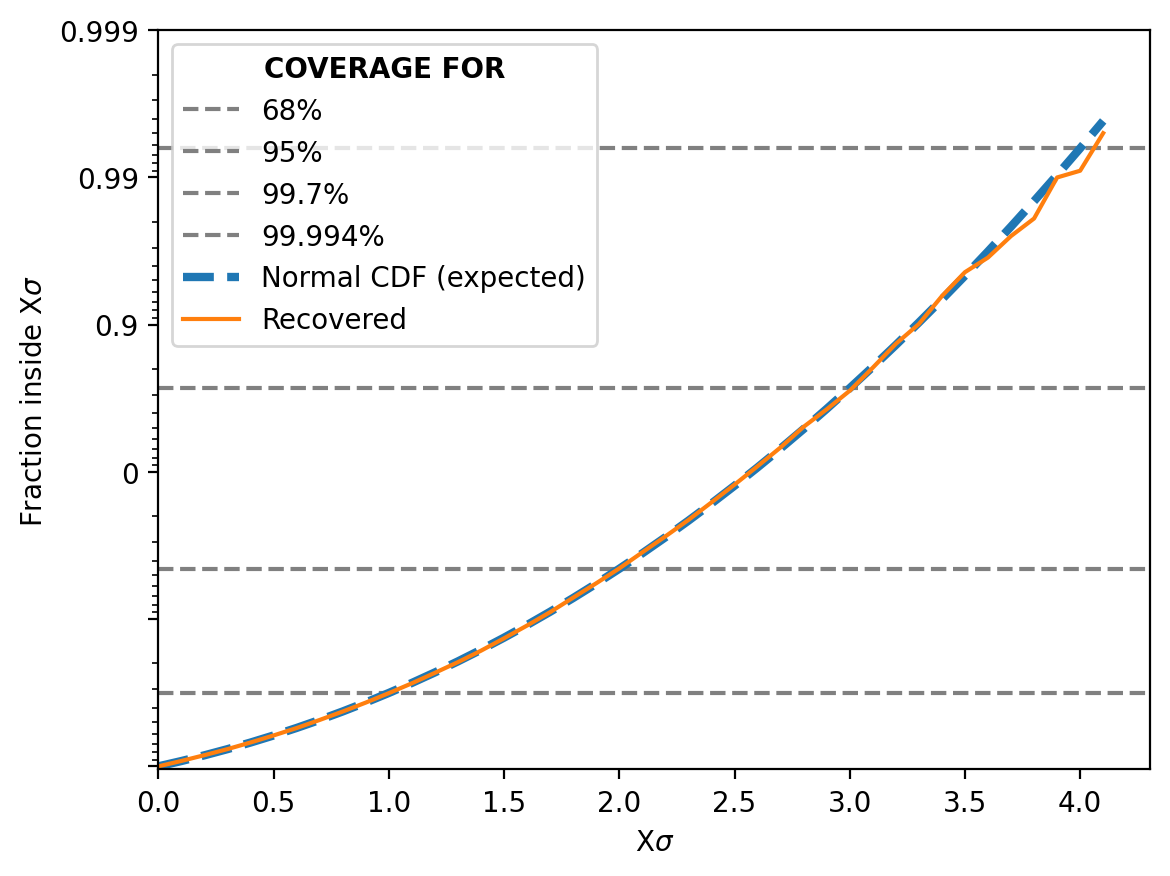
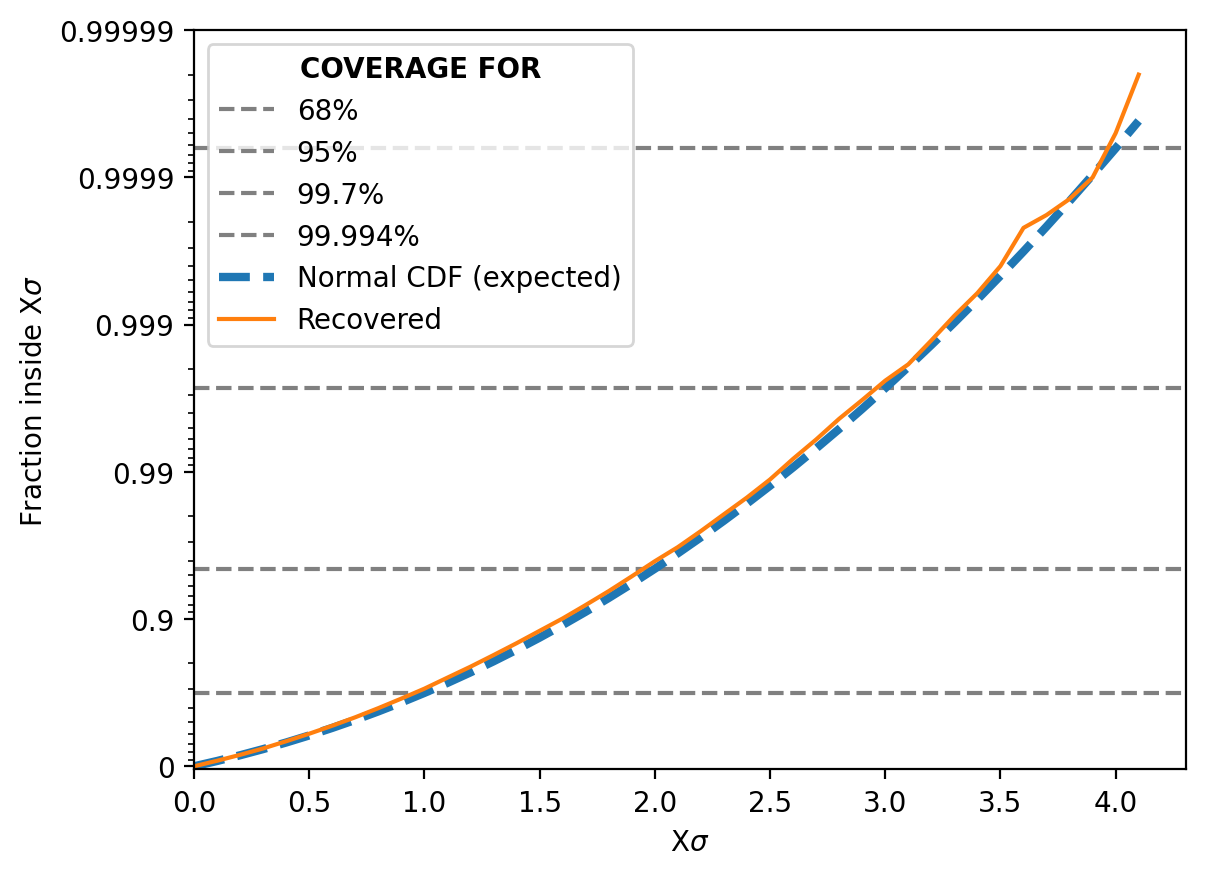
Finishing up SBI Pt II: NRE post initial completed draft

diff --git a/_posts/2025-08-14-sbi-nre.md b/_posts/2025-08-14-sbi-nre.md
@@ -66,7 +66,7 @@ The benefits of SBI include but are not limited to:
 5. Through the use of the simulators and neural networks involved, _SBI is generally easier to parallelise_
 6. _Efficient exploration of parameter space_, through the fact that the simulator will often only output realistic data, the algorithms don't have to waste time in regions of the parameter space that don't lead to realistic data.
 
-The ability to handle a large number of nuisance parameters is actually what sparked my interest in SBI through the paper [A robust neural determination of the source-count distribution of the Fermi-LAT sky at high latitudes](https://arxiv.org/abs/2505.02906) by [Eckner](https://arxiv.org/search/astro-ph?searchtype=author&query=Eckner,+C) et al. who used Nested Ratio Estimation (NRE, which I'll discuss later) to analyse data with a huge number of nuisance parameters introduced by an unknown source distribution in the gamma-ray sky.
+The ability to handle a large number of nuisance parameters is actually what sparked my interest in SBI through the paper [A robust neural determination of the source-count distribution of the Fermi-LAT sky at high latitudes](https://arxiv.org/abs/2505.02906) by [Eckner](https://arxiv.org/search/astro-ph?searchtype=author&query=Eckner,+C) et al. who used Nested Ratio Estimation (a variant of NRE, which I'll discuss later) to analyse data with a huge number of nuisance parameters introduced by an unknown source distribution in the gamma-ray sky.
 
 I would recommend looking at [The frontier of simulation-based inference](https://arxiv.org/pdf/1911.01429) by [Kyle Cranmer](https://theoryandpractice.org/), [Johann Brehmer](https://johannbrehmer.github.io/) and [Gilles Louppe](https://glouppe.github.io/) and the references therein to check these claims out for yourself if you want.
 
@@ -450,9 +450,9 @@ for epoch in pbar:
     running_loss = 0.0
     for X_batch, y_batch in loader:
         optimizer.zero_grad()
-        data, theta = X_batch[:, 0].unsqueeze(1), X_batch[:, 1:]
+        theta, data = X_batch[:, 0].unsqueeze(1), X_batch[:, 1:]
 
-        y_pred = model(data, theta)
+        y_pred = model(theta, data)
         loss = criterion(y_pred, y_batch)
         loss.backward()
         optimizer.step()
@@ -482,14 +482,14 @@ with torch.no_grad():
     noise_multiplier= 1.
     sample = generate_data(centres, n_samples=1, noise_std = noise_multiplier*0.1).squeeze()
 
-    prob = torch.sigmoid(model(centres, sample)).mean().item()
+    prob = torch.sigmoid(model(sample, centres)).mean().item()
 
     print(f"Probability of being correlated (when correlated): {prob:.3f}")
 
     noise_multiplier= 10.
     sample = generate_data(centres, n_samples=1, noise_std = noise_multiplier*0.1).squeeze()
 
-    prob = torch.sigmoid(model(centres, sample)).mean().item()
+    prob = torch.sigmoid(model(sample, centres)).mean().item()
 
     print(f"Probability of being correlated (when not correlated): {prob:.3f}")
 ```
@@ -514,7 +514,7 @@ with torch.no_grad():
 
 
     print(samples.shape, example_centres.shape)
-    loglike = model(example_centres, samples).squeeze()
+    loglike = model(samples, example_centres).squeeze()
 
     print(samples.shape, loglike.shape)
 
@@ -563,9 +563,205 @@ This shows that the NRE approximation of the likelihood is extremely good[^nre_v
 
 ## Dataset Level Rudimentary Implementation
 
+Beyond creating a likelihood representation on a per observation level we can additionally look at the likelihood for a given dataset. The math works out exactly the same except that the concept of "datapoint" for $$\vec{x}$$ is broadened to "data". We then create the labels in the same way looking for when conditional-/hyper-parameters are related to data/datasets. 
+
+The key difficulty is that we can't just chuck the data into the neural network anymore and we need to aggregate the data within a given dataset. Again similar to my previous posts, an easy way that we can do this is with an _embedding_ network. In which we feed in the data and get some compressed representation that we can use to feed into our classifier. I will use a [Deep Set neural networks](https://arxiv.org/abs/1703.06114) to achieve this rather than simple summary statistics.
+
+The paper on Deep Set neural networks I've used as reference above gets a little in the weeds for the purpose of this post. The setup can simply be denoted as three functions: $$\{\vec{y}_i\}_i$$[^y] inputs for $$i\in \{1,..., S\}$$, a single neural network that acts on each data point individually $$\phi$$, some sort of aggregation function/statistics $$f$$ such as the mean, and a second neural network that takes the output of the aggregated data $$\Phi$$.
+
+[^y]: Using $$y$$ for generality
+
+$$\begin{align}
+\text{DeepSet}(\vec{y}) &= \Phi\left(f(\{\phi(\vec{y}_i)\}_i)\right) \\
+&= \Phi\left(\frac{1}{S} \sum_i \phi(\vec{y}_i)\right)
+\end{align}$$
+
+Putting this into some code.
 
 
+```python
+import torch
+import torch.nn as nn
+import torch.nn.functional as F
 
+class DeepSet(nn.Module):
+    def __init__(self, input_dim, output_dim, phi_hidden=32, Phi_hidden=32):
+        super().__init__()
+        
+        self.phi = nn.Sequential(
+            nn.Linear(input_dim, phi_hidden),
+            nn.ReLU(),
+            nn.Linear(phi_hidden, phi_hidden),
+            nn.ReLU(),
+            nn.Linear(phi_hidden, phi_hidden),
+            nn.ReLU(),
+        )
+        
+        self.Phi = nn.Sequential(
+            nn.Linear(phi_hidden, Phi_hidden),
+            nn.ReLU(),
+            nn.Linear(Phi_hidden, Phi_hidden),
+            nn.ReLU(),
+            nn.Linear(Phi_hidden, output_dim),
+        )
+
+
+    def forward(self, x):
+        """
+        x: [batch_size, set_size, input_dim]
+        """
+        phi_x = self.phi(x)  # [batch_size, set_size, phi_hidden]
+        
+        # Aggregate along the data dimension which we'll say is 1
+        agg = phi_x.mean(dim=1)
+
+        # Apply Phi to aggregated vector
+        out = self.Phi(agg)
+
+        return out
+```
+
+This allows us to create a fixed size output, or embedding, for use in our analysis, and later on can be slightly adjusted to deal with changes in dataset size as part of the training.
+
+This means that our code stays almost exactly the same except we first feed the data into this embedding network _and then_ into the neural network. Here it is with the slight changes though.
+
+
+```python
+class NRE(nn.Module):
+    def __init__(self, data_dim=1, theta_dim=1, embedding_size=2, hidden_nodes=16):
+        super().__init__()
+
+        self.embedding_net = DeepSet(input_dim=data_dim, output_dim=embedding_size, phi_hidden=hidden_nodes, Phi_hidden=hidden_nodes)
+
+
+        combined_dims = theta_dim + embedding_size
+
+        # Binary net does not change a lick
+        self.binary_net = BinaryNet(combined_dims, hidden_nodes=hidden_nodes)
+
+
+    def forward(self, data, theta):
+        # assuming that the input shapes are (batch_dim, data/theta dim)
+        embedding_output = self.embedding_net(data)
+
+        combined_dataset = torch.concat((embedding_output, theta), dim=1)
+
+        return self.binary_net(combined_dataset)
+
+model = NRE(data_dim=2, theta_dim=1, embedding_size=5)
+```
+
+So we have the same data and parameter dimensionality but we've set the dimensionality of the embedding to 5[^w5].
+
+[^w5]: If you're wondering "why 5?" basically I just played around with the number while writing this post and it seemed to work the best. My general rule of thumb is that you just don't want it being much larger than the dimensionality of the hyperparameters.
+
+Now let's test it out, we'll use the same setup, just generate multiple datapoints for each value of the hyperparameter.
+
+```python
+N_data_samples = 100
+
+theta_base = generate_conditionals(n_samples=N_hyp_samples)
+
+y_noisy = generate_data(theta_base, n_samples=N_data_samples).squeeze()
+```
+
+We'll then set up our data a little differently to before due to the shape change in `y_noisy`, but the broad aspects remain the same. We generate permutation of their indices and apply them to all the relevant tensors.
+
+```python
+
+# Generate labels for whether the samples are
+pos_labels = torch.ones((N_hyp_samples, 1))
+    # or are not related
+neg_labels = torch.zeros((N_hyp_samples, 1))
+# and then combine them into a single tensor
+labels = torch.vstack([pos_labels, neg_labels])
+
+# Generating the random index slices
+shuffled_indices = torch.randperm(N_hyp_samples)
+
+# Combining the joint dist samples together
+pos_hyp_samples = torch.vstack([theta_base, theta_base])
+# And making the marginal dist samples by shuffling the data values
+pos_data_samples = torch.vstack([y_noisy, y_noisy[shuffled_indices]])
+
+# Then creating one more layer of permutations so the classifier
+    # doesn't just learn the ordering
+perm = torch.randperm(len(labels))
+
+pos_hyp_samples = pos_hyp_samples[perm]
+pos_data_samples = pos_data_samples[perm]
+labels = labels[perm]
+```
+
+Loading this into some PyTorch dataloaders...
+
+```python
+from torch.utils.data import TensorDataset, DataLoader
+
+dataset = TensorDataset(pos_hyp_samples, pos_data_samples, labels)
+loader = DataLoader(dataset, batch_size=64, shuffle=True)
+```
+
+And then training the classifier...
+```python
+from tqdm.notebook import trange
+criterion = nn.BCEWithLogitsLoss()
+optimizer = optim.Adam(model.parameters(), lr=0.005)
+running_losses = []
+
+pbar = trange(100)
+for epoch in pbar:
+    running_loss = 0.0
+    for theta_batch, data_batch, y_batch in loader:
+        optimizer.zero_grad()
+
+        y_pred = model(data_batch, theta_batch)
+        
+        loss = criterion(y_pred, y_batch)
+        loss.backward()
+        optimizer.step()
+        running_loss += loss.item() * theta_batch.size(0)
+
+    running_losses.append(running_loss/len(dataset))
+    pbar.set_postfix({"Epoch": f"{epoch+1}", "Loss": f"{running_loss/len(dataset):.4f}"})
+```
+
+And then similar to above we get that for actually correlated samples we have a 98% chance of them being correlated and then for not correlated samples (at least in the way we generated them) a probability of correlation of 13%. So our classifier is doing relatively well as a classifier.
+
+Now let's look at what our approximated log-likelihood ratio curves look like. You can observe that the width of the distribution is smaller than the above example which makes sense as we're using more data (hence the zoomed in right plot).
+
+
+<div style="text-align: center;">
+  <img 
+      src="/files/BlogPostData/2025-08-sbi-2/example_nre_dataset_level_loglike_curve.png" 
+      alt="files/BlogPostData/2025-08-sbi-2/example_nre_dataset_level_loglike_curve.png" 
+      title="." 
+      style="width: 49%; height: auto; border-radius: 8px;">
+  <img 
+      src="/files/BlogPostData/2025-08-sbi-2/example_nre_dataset_level_loglike_curve_zoomed_in.png" 
+      alt="files/BlogPostData/2025-08-sbi-2/example_nre_dataset_level_loglike_curve_zoomed_in.png" 
+      title="." 
+      style="width: 49%; height: auto; border-radius: 8px;">
+</div>
+<br>
+
+We can then also look at the [Simulation-Based Calibration](https://mc-stan.org/docs/stan-users-guide/simulation-based-calibration.html#:~:text=A%20Bayesian%20posterior%20is%20calibrated,parameter%2080%25%20of%20the%20time.) test or the "coverage" (not a commonly used term) as I explained it above.
+
+<div style="text-align: center;">
+  <img 
+      src="/files/BlogPostData/2025-08-sbi-2/nre_dataset_level_log_scale_SBC.png" 
+      alt="files/BlogPostData/2025-08-sbi-2/nre_dataset_level_log_scale_SBC.png" 
+      title="." 
+      style="width: 49%; height: auto; border-radius: 8px;">
+  <img 
+      src="/files/BlogPostData/2025-08-sbi-2/nre_dataset_level_linear_scale_SBC.png" 
+      alt="files/BlogPostData/2025-08-sbi-2/nre_dataset_level_linear_scale_SBC.png" 
+      title="." 
+      style="width: 49%; height: auto; border-radius: 8px;">
+</div>
+<br>
+
+And it does just as well if not even better than before!
 
 
 <br>
@@ -573,8 +769,23 @@ This shows that the NRE approximation of the likelihood is extremely good[^nre_v
 
 # Conclusion
 
+My honest response to this when I first saw it was....
 
+<div style="text-align: center;">
+<img 
+    src="https://media1.tenor.com/m/PpFs2b1C8GQAAAAC/neat-john-krasinski.gif" 
+    alt="https://media1.tenor.com/m/PpFs2b1C8GQAAAAC/neat-john-krasinski.gif"
+    title="Huh... neat"
+    style="width: 40%; height: auto; border-radius: 4px;">
+</div>
+<br>
 
+There are many benefits to this approach, mostly coming from it being SBI (e.g. not having to directly model nuisance parameters) and the ability to now have a likelihood with in-built gradients, but there are a few caveats to using it:
+1. This is a _likelihood_ estimation technique, if you want a posterior you will typically need to run the result through another round of analysis.
+2. Overtraining the classifier equates to not having a representative likelihood. If your data is from simulations there is always chance that the classifier will only work on those and not on real data. To check if this could be the case would require more testing and a longer post that I don't want to subject you to at the moment.
+3. You are training a likelihood _ratio_ and not a _likelihood_, meaning that combining datasets through basic multiplication is not immediately justifiable in the strictest sense.
+
+But it is amazing that something so simple can enable us to possibly expand our analysis greatly through not having to directly model nuisance parameters, to amortising our inference (re-running the analysis is just a forward pass through a neural network) and get a cheap representation of a dataset or observation level likelihood.
 
 
 <br>

diff --git a/_posts/2025-08-11-sbi-npe-nle.md b/_posts/2025-08-11-sbi-npe-nle.md
@@ -58,7 +58,7 @@ The benefits of SBI include but are not limited to:
 5. Through the use of the simulators and neural networks involved, _SBI is generally easier to parallelise_
 6. _Efficient exploration of parameter space_, through the fact that the simulator will often only output realistic data (by design), the algorithms don't have to waste time in regions of the parameter space that don't lead to realistic data.
 
-The ability to handle a large number of nuisance parameters is actually what sparked my interest in SBI through the paper [A robust neural determination of the source-count distribution of the Fermi-LAT sky at high latitudes](https://arxiv.org/abs/2505.02906) by [Eckner](https://arxiv.org/search/astro-ph?searchtype=author&query=Eckner,+C) et al. who used Nested Ratio Estimation (NRE, which I'll discuss in my next post) to analyse data with a huge number of nuisance parameters introduced by an unknown source distribution in the gamma-ray sky.
+The ability to handle a large number of nuisance parameters is actually what sparked my interest in SBI through the paper [A robust neural determination of the source-count distribution of the Fermi-LAT sky at high latitudes](https://arxiv.org/abs/2505.02906) by [Eckner](https://arxiv.org/search/astro-ph?searchtype=author&query=Eckner,+C) et al. who used Nested Ratio Estimation (a variant of NRE, which I'll discuss in my next post) to analyse data with a huge number of nuisance parameters introduced by an unknown source distribution in the gamma-ray sky.
 
 I would recommend looking at [The frontier of simulation-based inference](https://arxiv.org/pdf/1911.01429) by [Kyle Cranmer](https://theoryandpractice.org/), [Johann Brehmer](https://johannbrehmer.github.io/) and [Gilles Louppe](https://glouppe.github.io/) and the references therein to check these claims out for yourself if you want.
 
